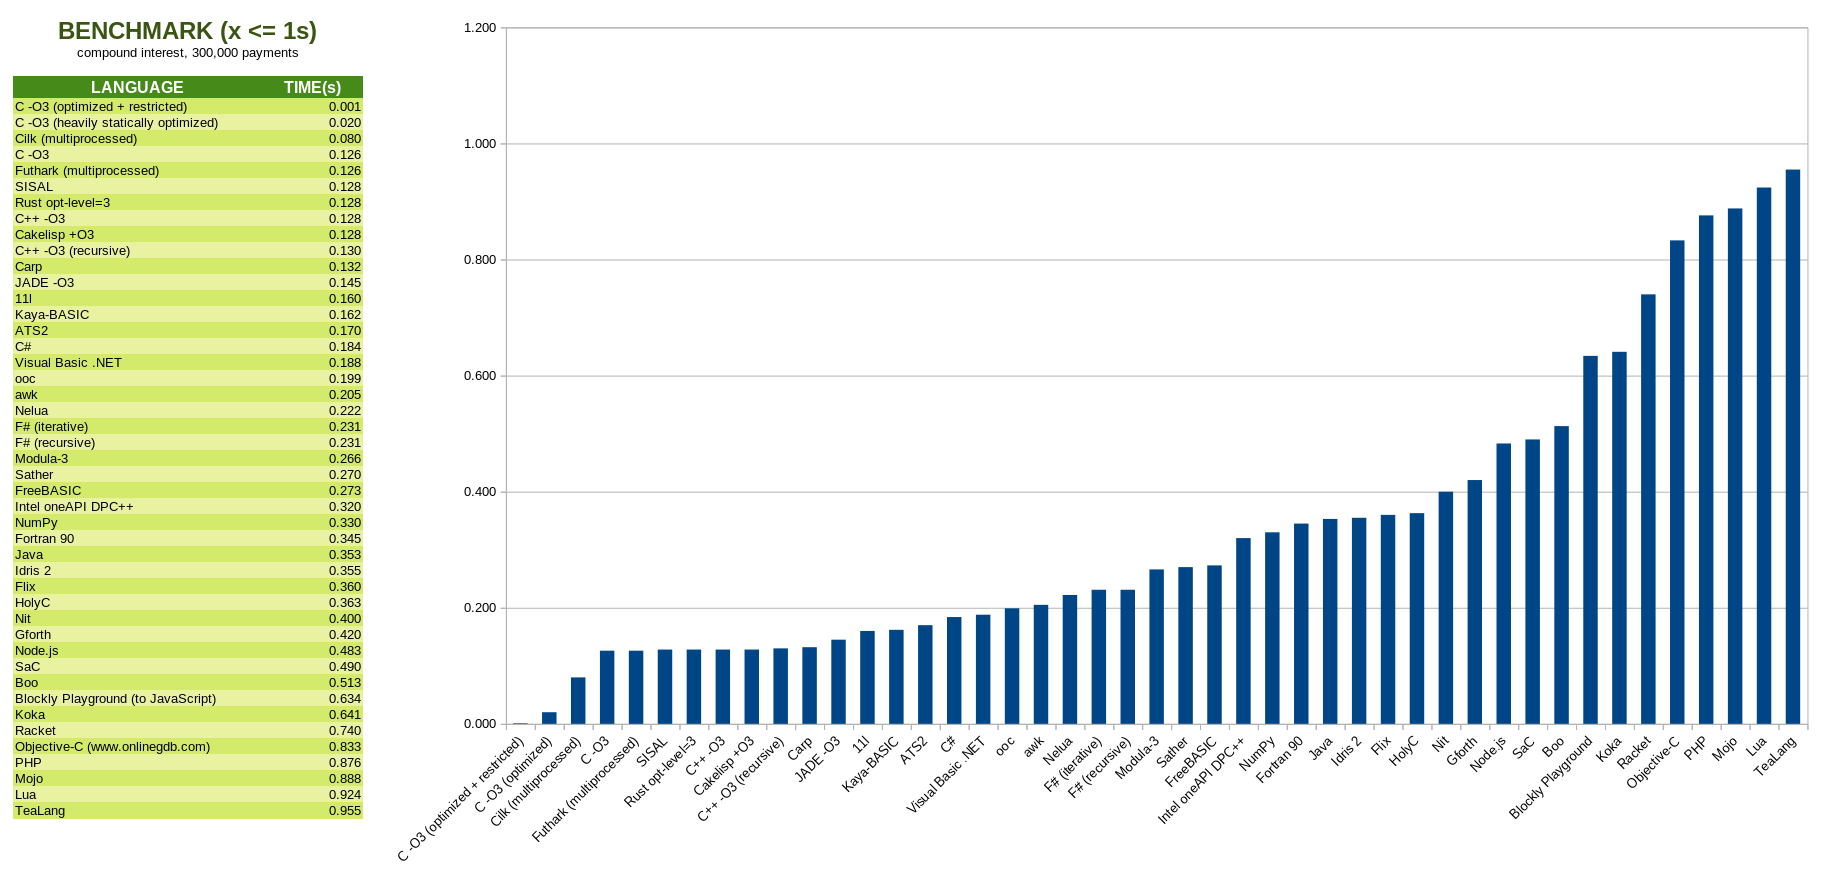
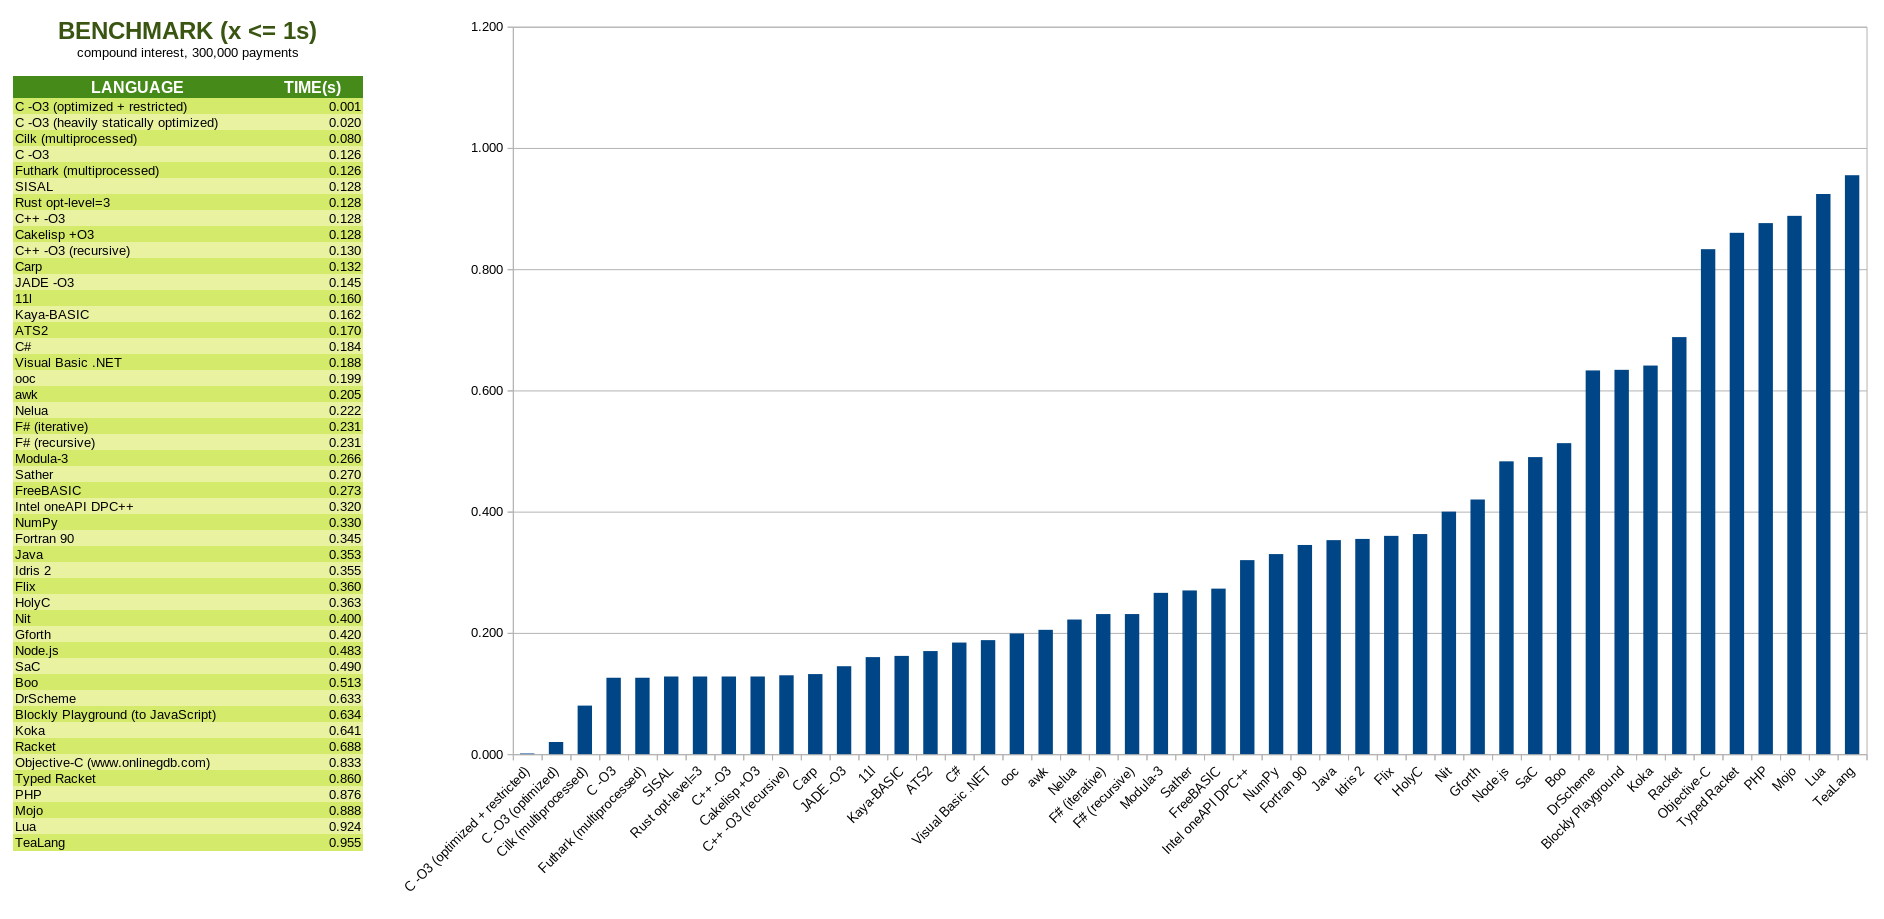
Add files via upload
DRSCHEME:
;;        0.2: 03/11/2026: listas dinâmicas escaláveis, car/cdr, alterações nas funções recursivas para permitir Tail Call Optimization (TCO)
;;                         adicionadas variáveis `pesoTotal` e validações de variáveis, argumentos e cálculos

STEEL:
;;        0.4: 03/11/2026: adicionada `acumualador` e avaliada

diff --git a/SOLUCOES.md b/SOLUCOES.md
@@ -425,7 +425,7 @@ This is a list of links in this repository to solutions in different dialects, o
 
 [juros.dgn](juros.dgn)
 
-### DrScheme (31/01/2025) ♻
+### DrScheme (31/01/2025) 🚀 ♻ ➰
 
 [juros.dr.scm](juros.dr.scm)
 
